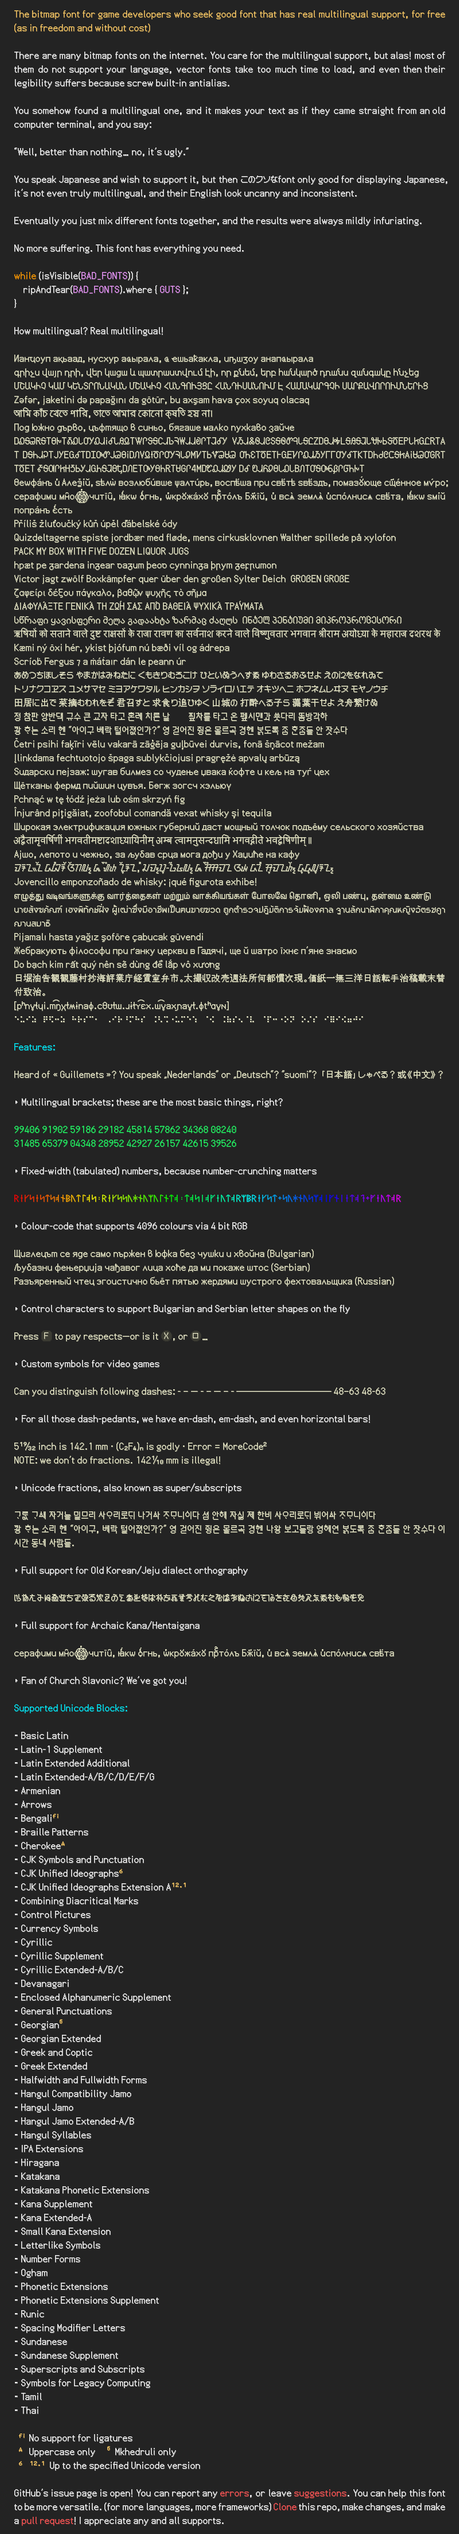
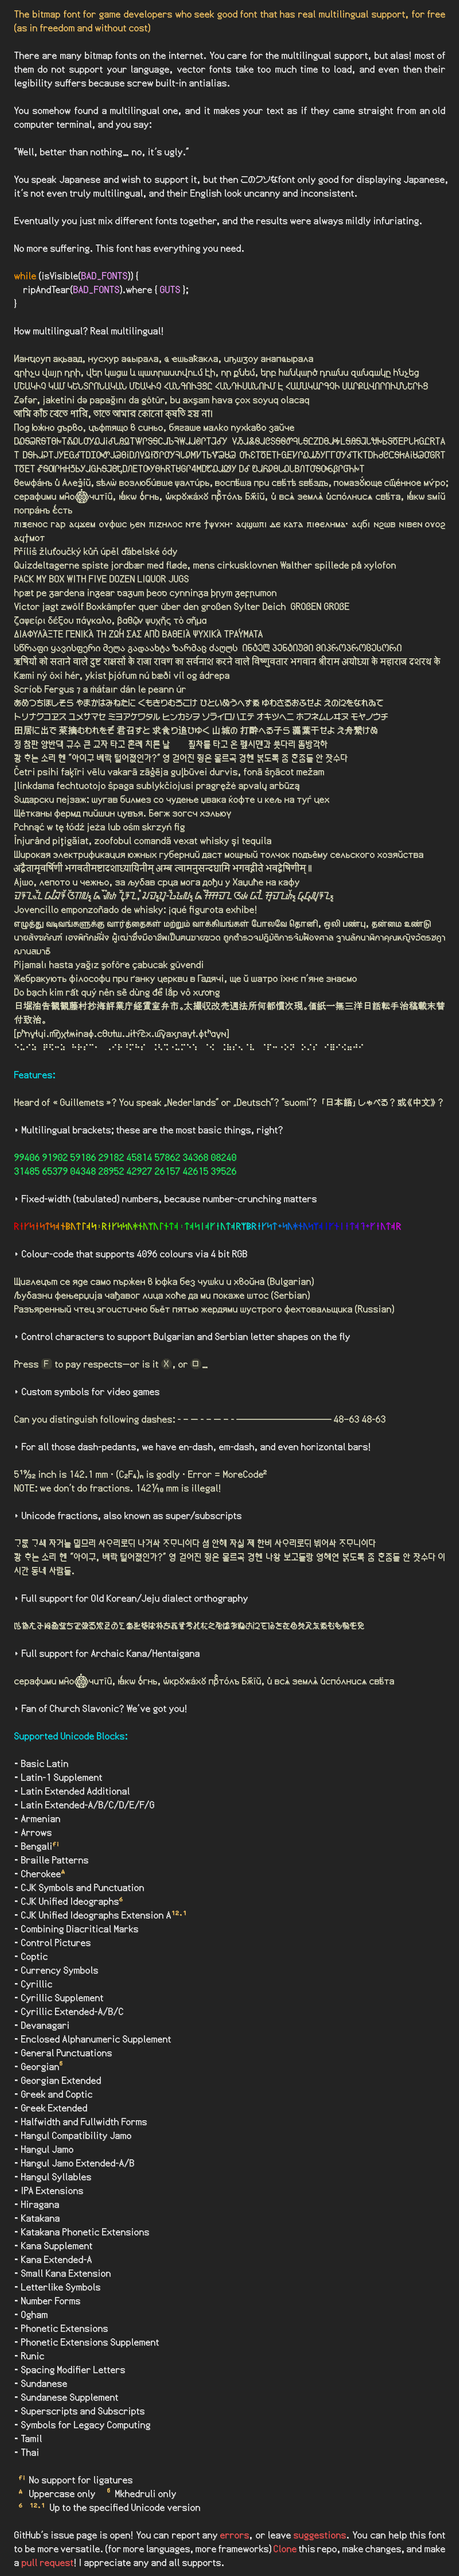
coptic

diff --git a/src/net/torvald/terrarumsansbitmap/gdx/TerrarumSansBitmap.kt b/src/net/torvald/terrarumsansbitmap/gdx/TerrarumSansBitmap.kt
@@ -882,6 +882,7 @@ class TerrarumSansBitmap(
             SHEET_LATIN_EXTF_VARW -> latinExtFIndexY(ch)
             SHEET_LATIN_EXTG_VARW -> latinExtGIndexY(ch)
             SHEET_OGHAM_VARW -> oghamIndexY(ch)
+            SHEET_COPTIC_VARW -> copticIndexY(ch)
             else -> ch / 16
         }
 
@@ -2614,6 +2615,7 @@ class TerrarumSansBitmap(
         internal const val SHEET_LATIN_EXTF_VARW = 46
         internal const val SHEET_LATIN_EXTG_VARW = 47
         internal const val SHEET_OGHAM_VARW = 48
+        internal const val SHEET_COPTIC_VARW = 49
 
         internal const val SHEET_UNKNOWN = 254
 
@@ -2685,6 +2687,7 @@ class TerrarumSansBitmap(
             "latinExtF_variable.tga",
             "latinExtG_variable.tga",
             "ogham_variable.tga",
+            "coptic_variable.tga",
         )
         internal val codeRange = arrayOf( // MUST BE MATCHING WITH SHEET INDICES!!
             0..0xFF, // SHEET_ASCII_VARW
@@ -2736,6 +2739,7 @@ class TerrarumSansBitmap(
             0x10780..0x107BF, // SHEET_LATIN_EXTF_VARW
             0x1DF00..0x1DFFF, // SHEET_LATIN_EXTG_VARW
             0x1680..0x169F, // SHEET_OGHAM_VARW
+            0x2C80..0x2CFF, // SHEET_COPTIC_VARW
         )
         private val codeRangeHangulCompat = 0x3130..0x318F
 
@@ -3095,6 +3099,7 @@ class TerrarumSansBitmap(
         private fun latinExtFIndexY(c: CodePoint) = (c - 0x10780) / 16
         private fun latinExtGIndexY(c: CodePoint) = (c - 0x1DF00) / 16
         private fun oghamIndexY(c: CodePoint) = (c - 0x1680) / 16
+        private fun copticIndexY(c: CodePoint) = (c - 0x2C80) / 16
 
         val charsetOverrideDefault = Character.toChars(CHARSET_OVERRIDE_DEFAULT).toSurrogatedString()
         val charsetOverrideBulgarian = Character.toChars(CHARSET_OVERRIDE_BG_BG).toSurrogatedString()

diff --git a/OTFbuild/sheet_config.py b/OTFbuild/sheet_config.py
@@ -79,6 +79,7 @@ SHEET_LATIN_EXTE_VARW = 45
 SHEET_LATIN_EXTF_VARW = 46
 SHEET_LATIN_EXTG_VARW = 47
 SHEET_OGHAM_VARW = 48
+SHEET_COPTIC_VARW = 49
 
 SHEET_UNKNOWN = 254
 
@@ -132,6 +133,7 @@ FILE_LIST = [
     "latinExtF_variable.tga",
     "latinExtG_variable.tga",
     "ogham_variable.tga",
+    "coptic_variable.tga",
 ]
 
 CODE_RANGE = [
@@ -184,6 +186,7 @@ CODE_RANGE = [
     list(range(0x10780, 0x107C0)),                                                  # 46: Latin Ext F
     list(range(0x1DF00, 0x1E000)),                                                  # 47: Latin Ext G
     list(range(0x1680, 0x16A0)),                                                    # 48: Ogham
+    list(range(0x2C80, 0x2D00)),                                                    # 49: Coptic
 ]
 
 CODE_RANGE_HANGUL_COMPAT = range(0x3130, 0x3190)
@@ -567,5 +570,6 @@ def index_y(sheet_index, c):
         SHEET_LATIN_EXTF_VARW: lambda: (c - 0x10780) // 16,
         SHEET_LATIN_EXTG_VARW: lambda: (c - 0x1DF00) // 16,
         SHEET_OGHAM_VARW: lambda: (c - 0x1680) // 16,
+        SHEET_COPTIC_VARW: lambda: (c - 0x2C80) // 16,
         SHEET_HANGUL: lambda: 0,
     }.get(sheet_index, lambda: c // 16)()

diff --git a/OTFbuild/font_builder.py b/OTFbuild/font_builder.py
@@ -28,7 +28,7 @@ from keming_machine import generate_kerning_pairs
 from opentype_features import generate_features, glyph_name
 import sheet_config as SC
 
-FONT_VERSION = "1.15"
+FONT_VERSION = "1.16"
 
 # Codepoints that get cmap entries (user-visible)
 # PUA forms used internally by GSUB get glyphs but NO cmap entries
